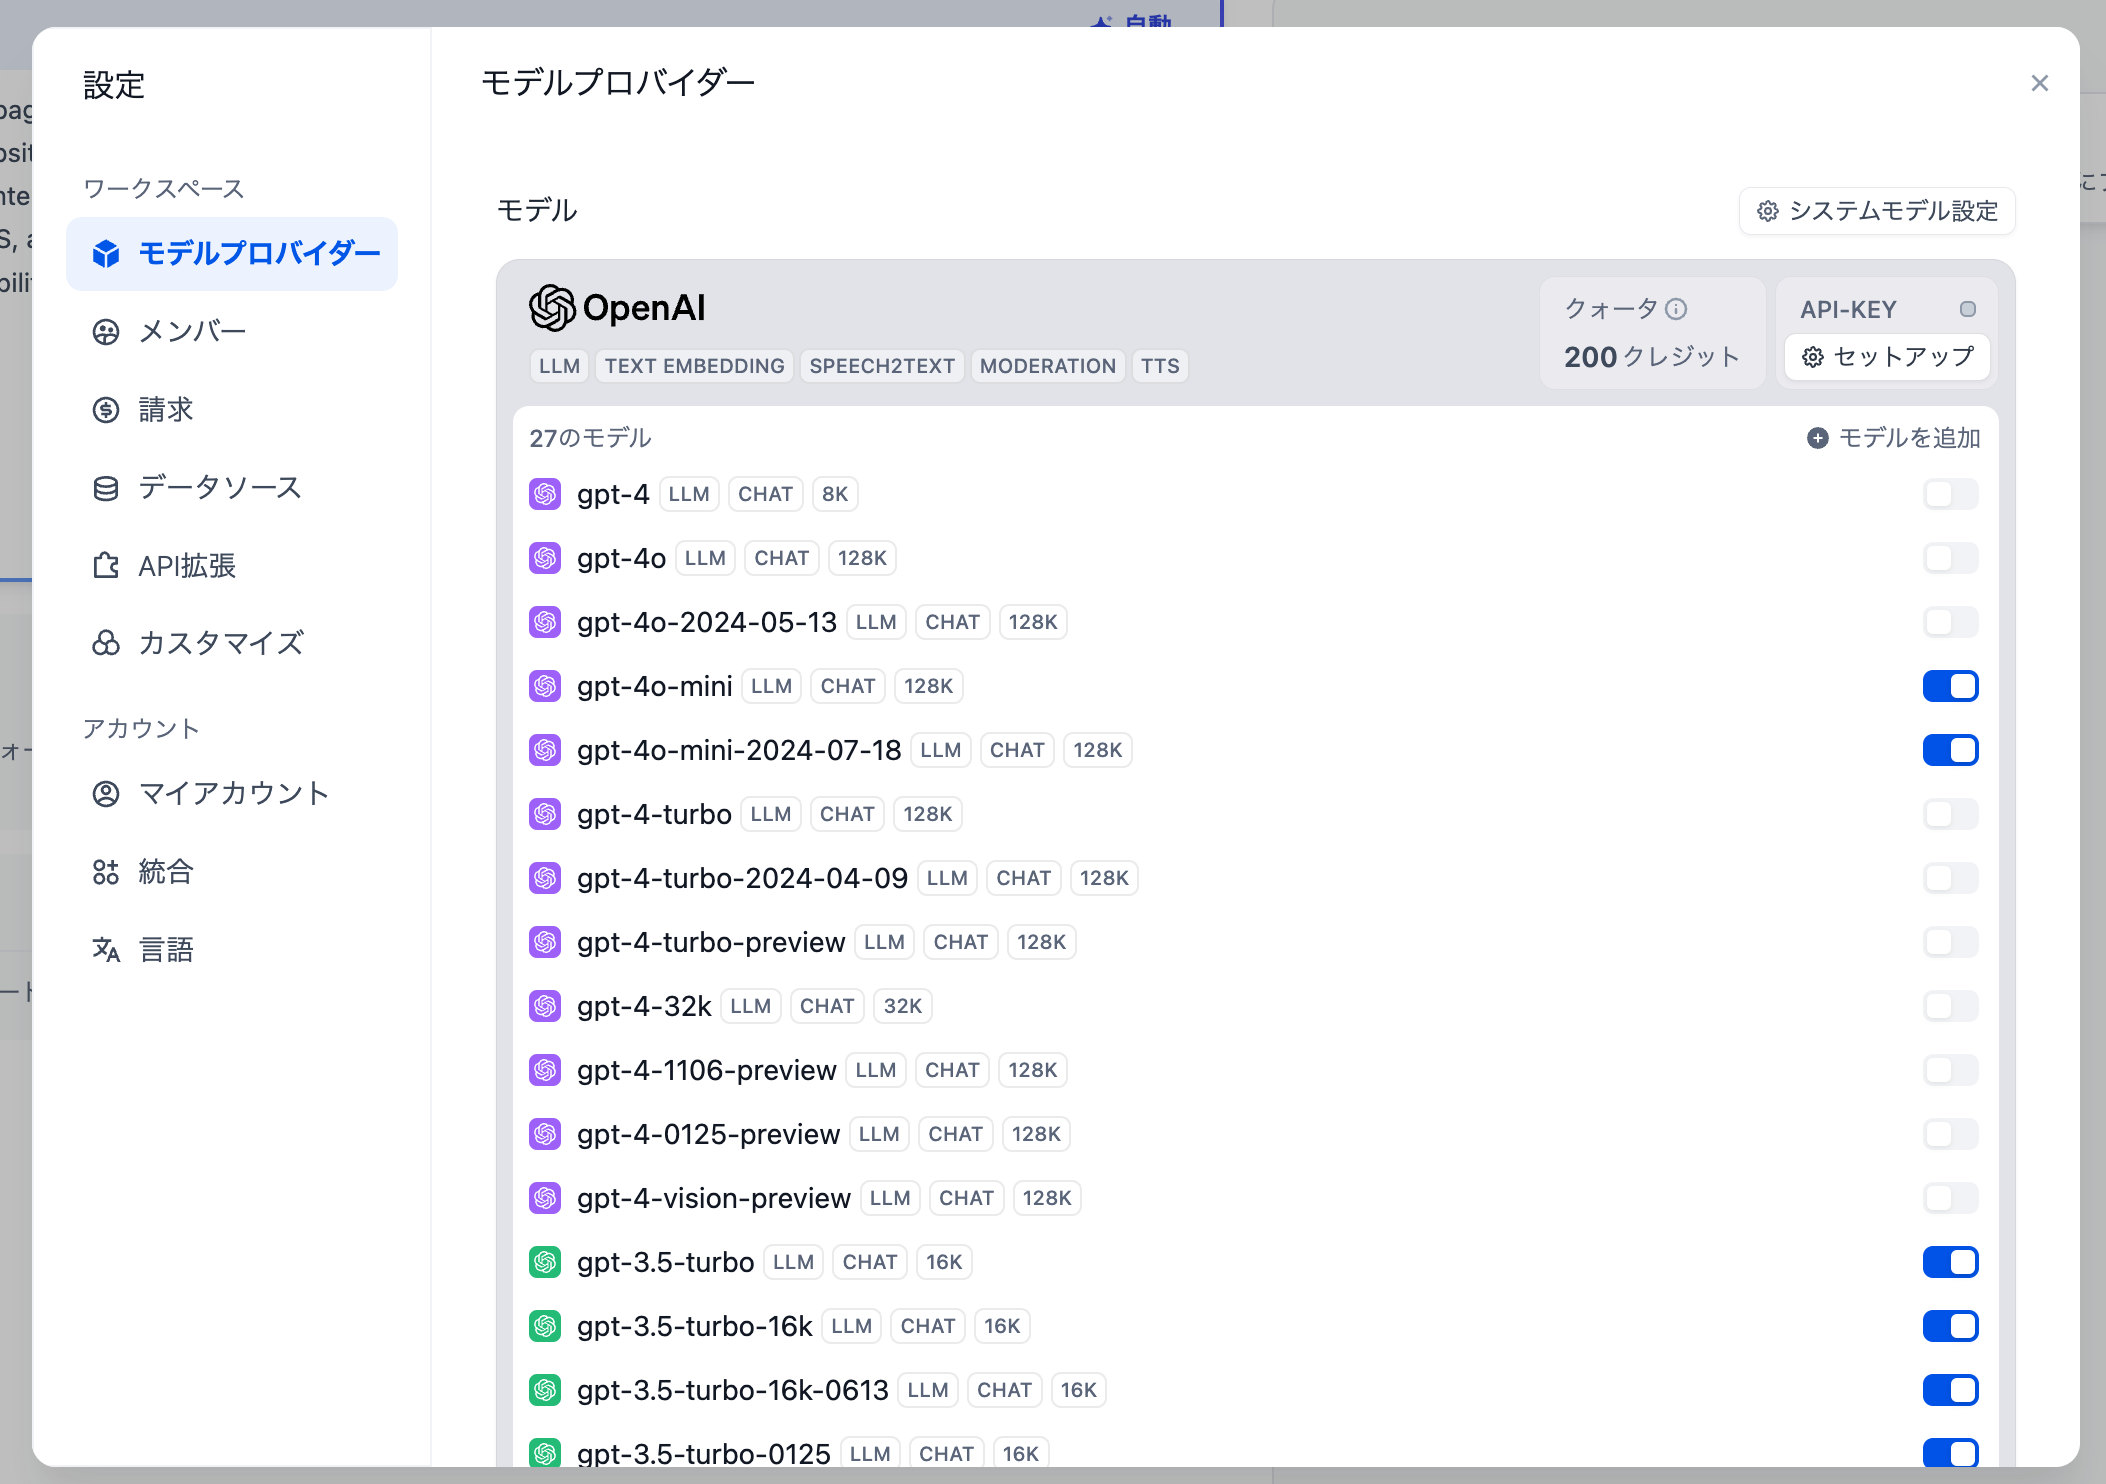
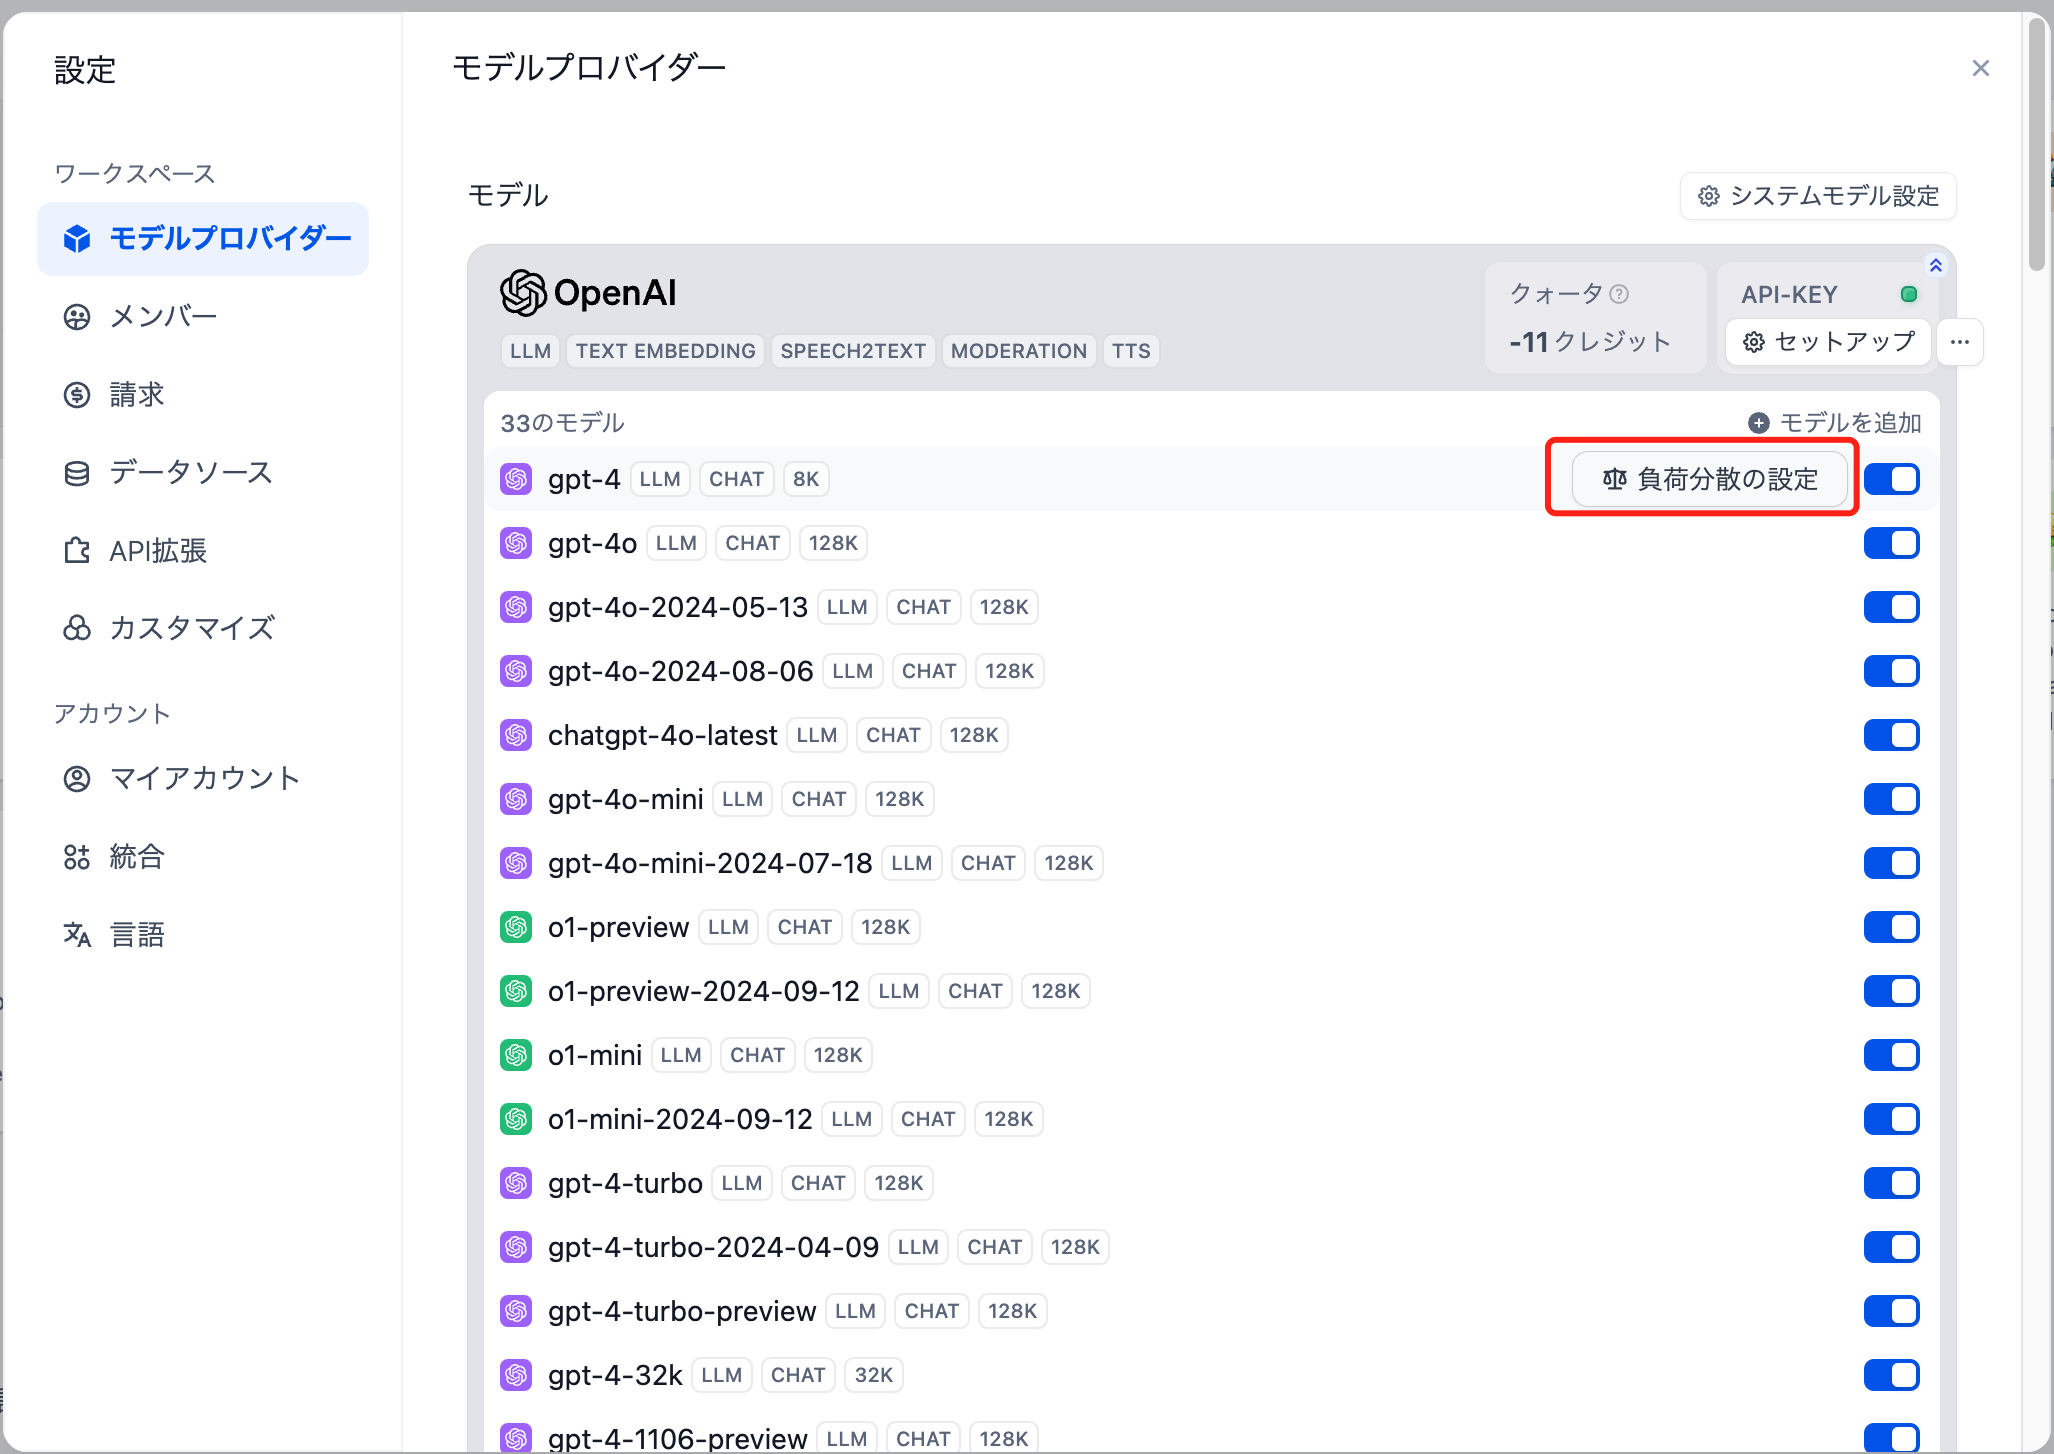
Modify syntax (#277)

Changed region(s): [[0.0, 0.0, 1.0, 1.0], [0.4362, 0.8975, 0.4674, 0.9285]]

diff --git a/jp/guides/model-configuration/load-balancing.md b/jp/guides/model-configuration/load-balancing.md
@@ -1,35 +1,35 @@
-# ロードバランシング
+# 負荷分散
 
 モデルのレート制限（Rate limits）とは、モデルプロバイダーがユーザーまたは顧客に対し、指定された時間内にAPIサービスへアクセスする回数に対して設ける制限のことです。これにより、APIの乱用や誤用を防ぎ、すべてのユーザーが公平にAPIにアクセスできるようにし、インフラ全体の負荷を管理することができます。
 
-企業レベルで大規模にモデルAPIを呼び出す際、高い同時リクエストがレート制限を超えてしまい、ユーザーのアクセスに影響を及ぼすことがあります。ロードバランシングは、複数のAPIエンドポイント間でAPIリクエストを分配することで、すべてのユーザーが最速の応答と最高のモデル呼び出しスループットを得られるようにし、ビジネスの安定した運用を保障します。
+企業レベルで大規模にモデルAPIを呼び出す際、高い同時リクエストがレート制限を超えてしまい、ユーザーのアクセスに影響を及ぼすことがあります。負荷分散は、複数のAPIエンドポイント間でAPIリクエストを分配することで、すべてのユーザーが最速の応答と最高のモデル呼び出しスループットを得られるようにし、ビジネスの安定した運用を保障します。
 
-**モデルプロバイダー -- モデルリスト -- 設定モデルロードバランシング** でこの機能を有効にし、同じモデルに複数の資格情報（APIキー）を追加することができます。
+**モデルプロバイダー -- モデルリスト -- 負荷分散の設定** でこの機能を有効にし、同じモデルに複数の資格情報（APIキー）を追加することができます。
 
-<figure><img src="../../../img/jp-load_balancing_1.png" alt="" width="563"><figcaption><p>モデルロードバランシング</p></figcaption></figure>
+<figure><img src="../../../img/jp-load_balancing_1.png" alt="" width="563"><figcaption><p>モデルを負荷分散する</p></figcaption></figure>
 
 {% hint style="info" %}
-モデルロードバランシングは有料機能です。[SaaS有料サービスのサブスクリプション](../../getting-started/cloud.md#ding-yue-ji-hua)または企業版の購入を通じてこの機能を有効にすることができます。
+モデル負荷分散は有料機能です。[SaaS有料サービスのサブスクリプション](../../getting-started/cloud.md#ding-yue-ji-hua)または企業版の購入を通じてこの機能を有効にすることができます。
 {% endhint %}
 
-デフォルト設定では、APIキーは初回設定時にモデルプロバイダーに追加された資格情報です。**設定の追加** をクリックして、同じモデルの異なるAPIキーを追加することで、ロードバランシング機能を正常に使用できます。
+デフォルト設定では、APIキーは初回設定時にモデルプロバイダーに追加された資格情報です。**設定の追加** をクリックして、同じモデルの異なるAPIキーを追加することで、負荷分散機能を正常に使用できます。
 
-<figure><img src="../../img/jp-load_balancing_2.png" alt="" width="563"><figcaption><p>ロードバランシングの設定</p></figcaption></figure>
+<figure><img src="../../img/jp-load_balancing_2.png" alt="" width="563"><figcaption><p>負荷分散の設定</p></figcaption></figure>
 
-**少なくとも1つの追加モデル資格情報**を追加することで、保存しロードバランシングを有効にできます。
+**少なくとも1つの追加モデル資格情報**を追加することで、保存し負荷分散を有効にできます。
 
 既に設定されている資格情報を**一時的に無効化**または**削除**することも可能です。
 
 <figure><img src="../../.gitbook/assets/image (7).png" alt="" width="563"><figcaption></figcaption></figure>
 
-設定完了後、モデルリスト内にすべての有効なロードバランシングモデルが表示されます。
+設定完了後、モデルリスト内にすべての有効な負荷分散モデルが表示されます。
 
-<figure><img src="../../img/jp-load_balancing_3.png" alt="" width="563"><figcaption><p>ロードバランシングの有効化</p></figcaption></figure>
+<figure><img src="../../img/jp-load_balancing_3.png" alt="" width="563"><figcaption><p>負荷分散の有効化</p></figcaption></figure>
 
 {% hint style="info" %}
-デフォルトでは、ロードバランシングはラウンドロビン戦略を使用します。レート制限を超えた場合、1分間のクールダウンタイムが適用されます。
+デフォルトでは、負荷分散はラウンドロビン戦略を使用します。レート制限を超えた場合、1分間のクールダウンタイムが適用されます。
 {% endhint %}
 
-**モデルの追加**からもロードバランシングを設定することができ、設定手順は上記と同じです。
+**モデルの追加**からも負荷分散を設定することができ、設定手順は上記と同じです。
 
-<figure><img src="../../.gitbook/assets/image (4).png" alt="" width="563"><figcaption><p>モデルの追加からロードバランシングを設定</p></figcaption></figure>
+<figure><img src="../../.gitbook/assets/image (4).png" alt="" width="563"><figcaption><p>モデルの追加から負荷分散を設定</p></figcaption></figure>

diff --git a/jp/guides/application-publishing/developing-with-apis.md b/jp/guides/application-publishing/developing-with-apis.md
@@ -76,9 +76,15 @@ print(response.text)
 
 大部分のシーンで使用できる対話型アプリケーションは、一問一答形式でユーザーと継続的に対話します。対話を開始するにはchat-messagesエンドポイントを呼び出し、返されたconversation\_idを引き続き提供することで会話を継続することができます。
 
+#### `conversation_id` に関する重要事項:
+
+- **`conversation_id` の生成:** 新しい会話を開始するときは、`conversation_id` フィールドを空のままにしておきます。システムは新しい `conversation_id` を生成して返します。この新しい `conversation_id` は、今後のやり取りで使用して対話を続行します。
+- **既存のセッションでの `conversation_id` の処理:** `conversation_id` が生成されると、Dify ボットとの会話の継続性を確保するために、今後の API 呼び出しにこの `conversation_id` を含める必要があります。以前の `conversation_id` が渡されると、新しい `inputs` は無視されます。進行中の会話では `query` のみが処理されます。
+- **動的変数の管理:** セッション中にロジックまたは変数を変更する必要がある場合は、会話変数 (セッション固有の変数) を使用してボットの動作または応答を調整できます。
+
 **アプリケーション -> APIアクセス**でそのアプリケーションのAPIドキュメントとサンプルリクエストを見つけることができます。
 
-例えば、対話情報のAPIの呼び出し例：
+以下は`chat-messages`のAPIの呼び出し例：
 
 {% tabs %}
 {% tab title="cURL" %}
@@ -90,7 +96,7 @@ curl --location --request POST 'https://api.dify.ai/v1/chat-messages' \
     "inputs": {},
     "query": "eh",
     "response_mode": "streaming",
-    "conversation_id": "1c7e55fb-1ba2-4e10-81b5-30addcea2276"
+    "conversation_id": "1c7e55fb-1ba2-4e10-81b5-30addcea2276",
     "user": "abc-123"
 }'
 

diff --git a/zh_CN/guides/application-publishing/developing-with-apis.md b/zh_CN/guides/application-publishing/developing-with-apis.md
@@ -72,11 +72,17 @@ print(response.text)
 
 #### 对话型应用
 
-可用于大部分场景的对话型应用，采用一问一答模式与用户持续对话。要开始一个对话请调用 chat-messages 接口，通过继续传入返回的 conversation\_id 可持续保持该会话。
+可用于大部分场景的对话型应用，采用一问一答模式与用户持续对话。要开始一个对话请调用 `chat-messages` 接口，每次对话开始都会产生出新的 `conversation\_id`，通过该`conversation\_id` 传回接口就可继续保持该会话。
+
+#### `conversation_id` 的注意事项：
+
+- **生成 `conversation_id`：**开始新对话时，请将 `conversation_id` 字段留空。系统将生成并返回一个新的 `conversation_id`，未来的交互中会使用该 `conversation_id` 继续对话。
+- **处理现有会话中的 `conversation_id`：**生成 `conversation_id` 后，对 API 的未来调用应包含此 `conversation_id`，以确保与 Dify 机器人的对话连续性。传递上一个 `conversation_id` 时，将忽略任何新的 `inputs`，仅处理正在进行的对话的 `query`。
+- **管理动态变量：**如果在会话期间需要修改逻辑或变量，您可以使用会话变量（特定于会话的变量）来调整bot的行为或回应。
 
 你可以在**应用 -> 访问 API** 中找到该应用的 API 文档与范例请求。
 
-例如，发送对话信息的 API的调用示例：
+例如，发送对话信息的 `chat-messages` API的调用示例：
 
 {% tabs %}
 {% tab title="cURL" %}
@@ -88,7 +94,7 @@ curl --location --request POST 'https://api.dify.ai/v1/chat-messages' \
     "inputs": {},
     "query": "eh",
     "response_mode": "streaming",
-    "conversation_id": "1c7e55fb-1ba2-4e10-81b5-30addcea2276"
+    "conversation_id": "1c7e55fb-1ba2-4e10-81b5-30addcea2276",
     "user": "abc-123"
 }'
 

diff --git a/jp/getting-started/install-self-hosted/docker-compose.md b/jp/getting-started/install-self-hosted/docker-compose.md
@@ -108,9 +108,27 @@ docker compose up -d
 
 ### Difyへのアクセス
 
-`http://localhost`にアクセスして、Difyを使用します。
+管理者初期化ページにアクセスして管理者アカウントを設定する:
 
-### Difyのカスタマイズ
+```bash
+# ローカル環境
+http://localhost/install
+
+# サーバー環境
+http://your_server_ip/install
+```
+
+Dify web interface address:
+
+```bash
+# ローカル環境
+http://localhost
+
+# サーバー環境
+http://your_server_ip
+```
+
+### Difyのカスタマイズ化
 
 環境変数は docker/dotenvs にあります。もし変数を変更するには、対応する`.env.example` ファイル名の接尾辞 `.example` を削除し、ファイル中の変数を直接編集してください。その後、以下のコマンドを順に実行：
 
@@ -118,3 +136,5 @@ docker compose up -d
 docker compose down
 docker compose up -d
 ```
+
+すべでの環境変数セットは `docker/.env.example` にあります。

diff --git a/jp/guides/workflow/node/iteration.md b/jp/guides/workflow/node/iteration.md
@@ -140,6 +140,8 @@ LLM ノード内で入力変数 `GenerateOverallOutline/output` と `Iteration/i
 
 <figure><img src="../../../../img/iteration-code-node-convert.png" alt="" width="334"><figcaption><p>コードノード変換</p></figcaption></figure>
 
+コード例：
+
 ```python
 def main(articleSections: list):
     data = articleSections
@@ -151,6 +153,8 @@ def main(articleSections: list):
 **テンプレートノードを使用した変換**
 
 <figure><img src="../../../../img/workflow-template-node.png" alt="" width="332"><figcaption><p>テンプレートノード変換</p></figcaption></figure>
+
+コード例：
 
 ```django
 {{ articleSections | join("\n") }}

diff --git a/en/guides/workflow/node/iteration.md b/en/guides/workflow/node/iteration.md
@@ -142,8 +142,6 @@ The output variable of the iteration node is in array format and cannot be direc
 
 CODE Example:
 
-CODE Example:
-
 ```python
 def main(articleSections: list):
     data = articleSections
